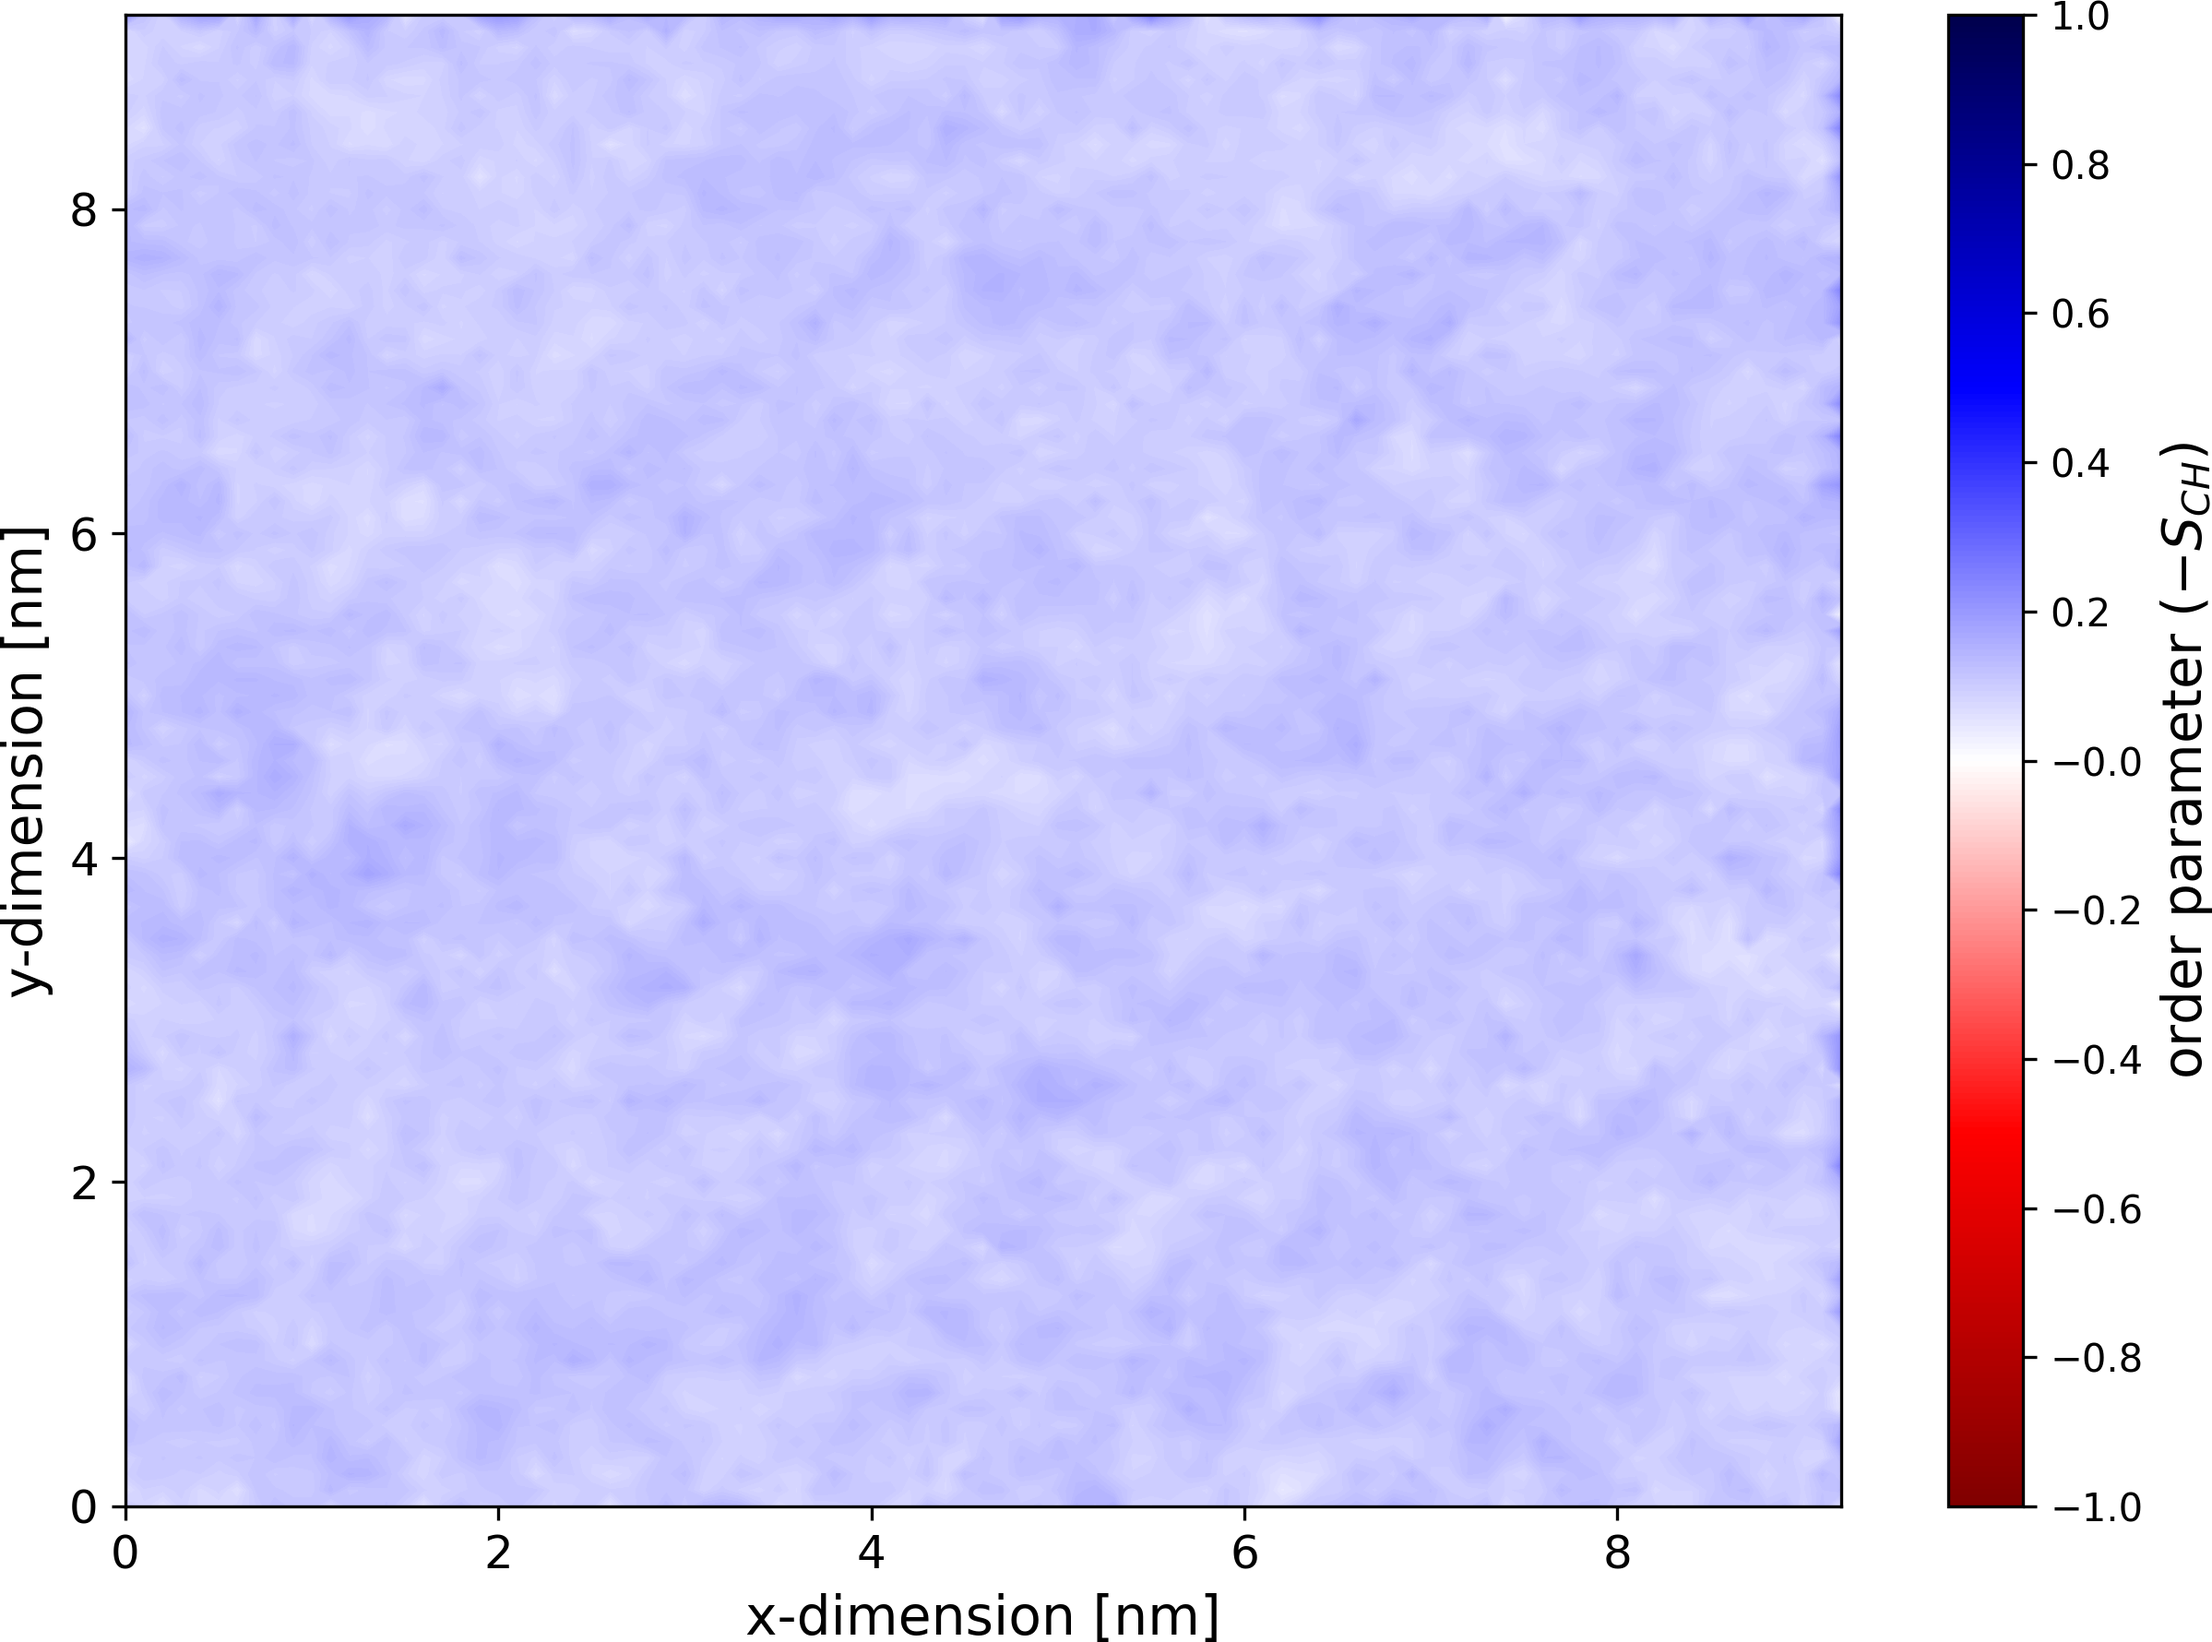
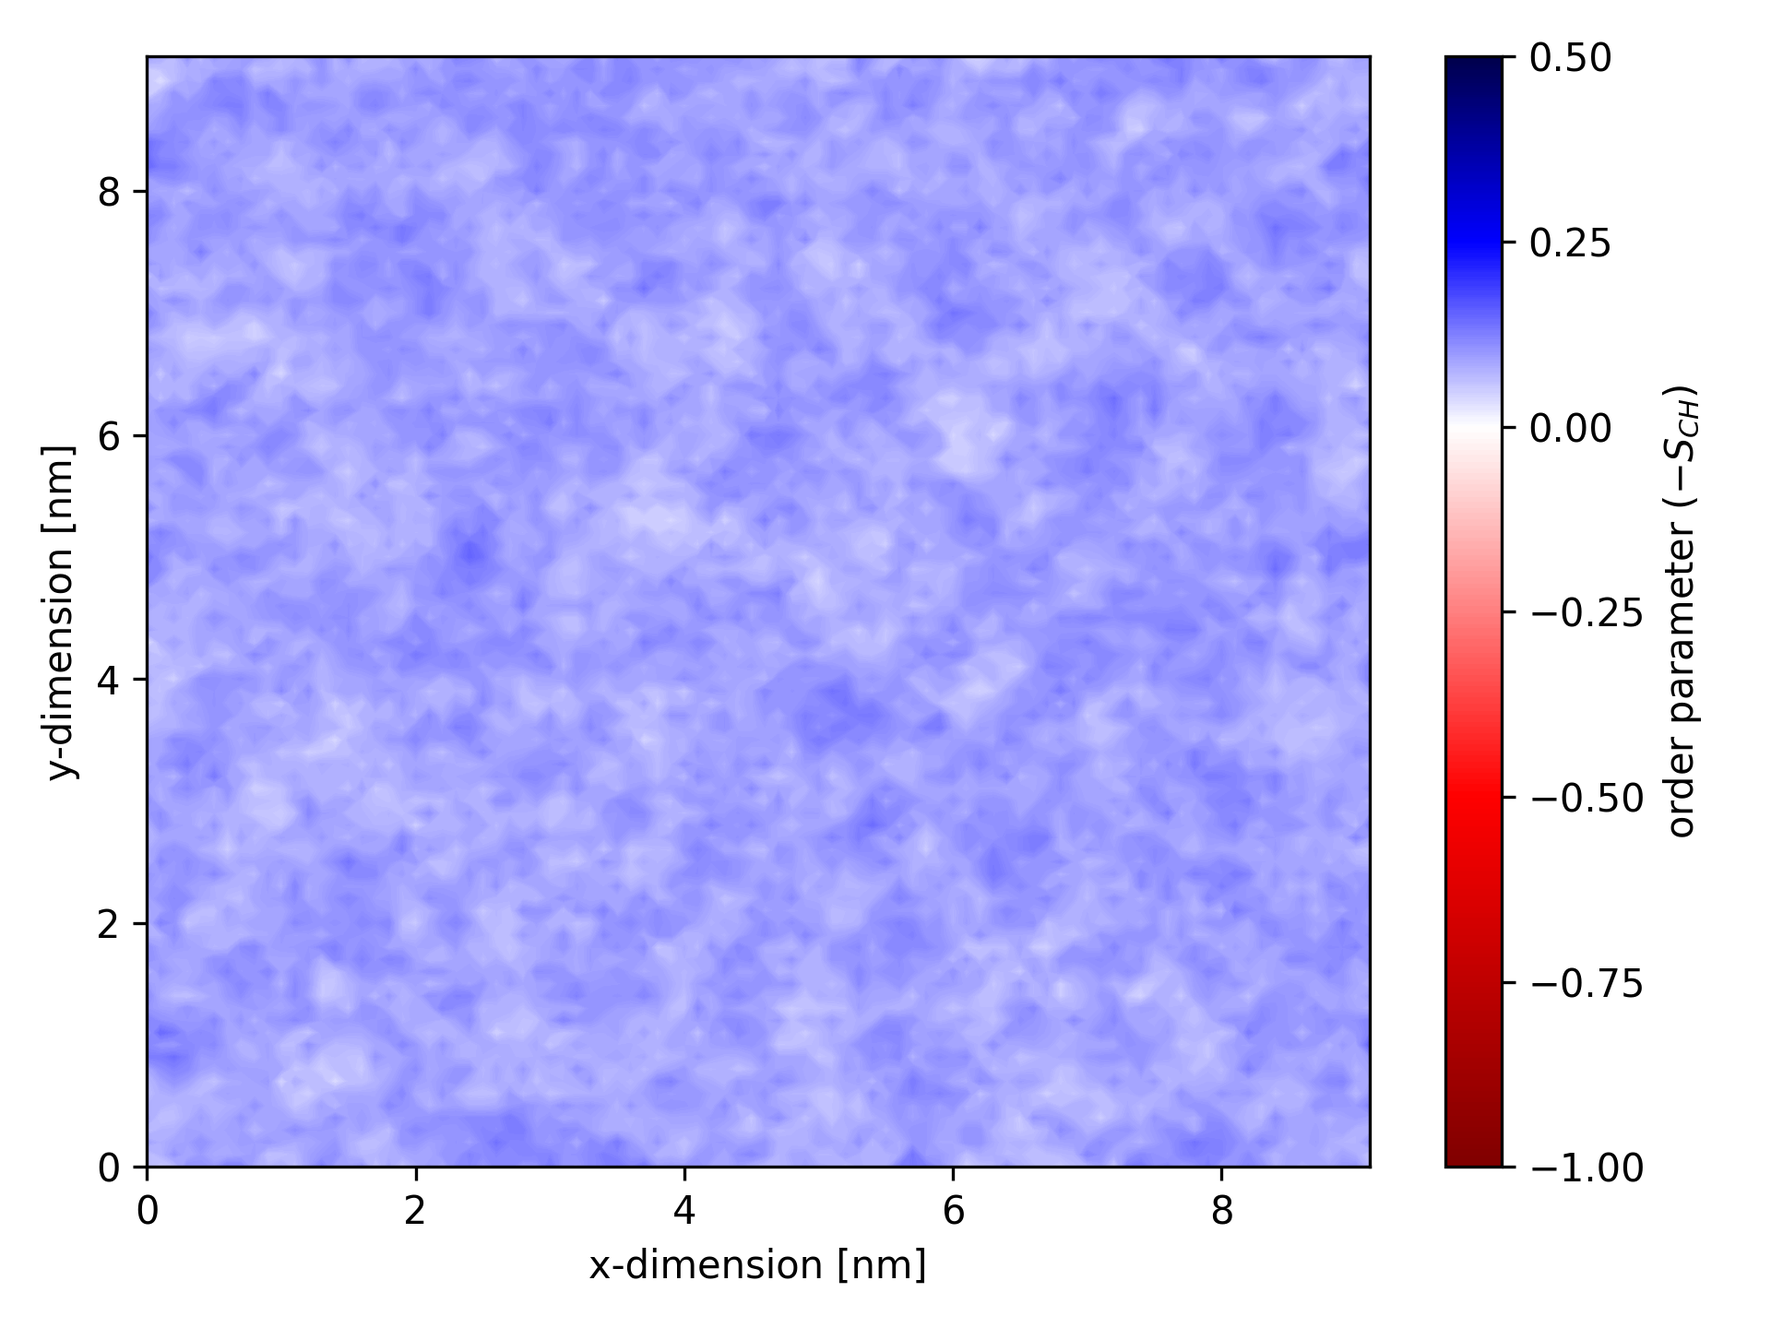
Updated ordermaps

diff --git a/src/ordermaps.md b/src/ordermaps.md
@@ -85,44 +85,44 @@ Ordermaps are saved in a custom two-dimensional `gorder` format:
 @ xlabel x-dimension [nm]
 @ ylabel y-dimension [nm]
 @ zlabel order parameter ($-S_{CH}$)
-@ zrange -1 1 0.2
+@ zrange -1.0 0.5 0.2
 $ type colorbar
 $ colormap seismic_r
-0.0000 0.0000 0.1025
-0.0000 0.1000 0.0610
-0.0000 0.2000 0.0922
-0.0000 0.3000 0.0798
-0.0000 0.4000 0.1215
-0.0000 0.5000 0.1275
-0.0000 0.6000 0.1120
-0.0000 0.7000 0.0732
-0.0000 0.8000 0.0723
-0.0000 0.9000 0.1040
-0.0000 1.0000 0.0711
+0.0000 0.0000 0.0663
+0.0000 0.1000 0.0599
+0.0000 0.2000 0.0890
+0.0000 0.3000 0.0607
+0.0000 0.4000 0.0851
+0.0000 0.5000 0.0730
+0.0000 0.6000 0.0635
+0.0000 0.7000 0.0650
+0.0000 0.8000 0.0823
+0.0000 0.9000 0.1256
+0.0000 1.0000 0.1154
 (...)
-0.1000 0.0000 0.0825
-0.1000 0.1000 0.0918
-0.1000 0.2000 0.1077
-0.1000 0.3000 0.1022
-0.1000 0.4000 0.1100
-0.1000 0.5000 0.1124
-0.1000 0.6000 0.0917
-0.1000 0.7000 0.1038
-0.1000 0.8000 0.1128
-0.1000 0.9000 0.1064
-0.1000 1.0000 0.1046
+0.1000 0.0000 0.0527
+0.1000 0.1000 0.0738
+0.1000 0.2000 0.0787
+0.1000 0.3000 0.0735
+0.1000 0.4000 0.0600
+0.1000 0.5000 0.0745
+0.1000 0.6000 0.0787
+0.1000 0.7000 0.0897
+0.1000 0.8000 0.1080
+0.1000 0.9000 0.1279
+0.1000 1.0000 0.1003
 (...)
-0.2000 0.0000 0.0603
-0.2000 0.1000 0.0873
-0.2000 0.2000 0.1058
-0.2000 0.3000 0.1097
-0.2000 0.4000 0.1014
-0.2000 0.5000 0.1147
-0.2000 0.6000 0.1199
-0.2000 0.7000 0.1315
-0.2000 0.8000 0.1123
-0.2000 0.9000 0.1012
-0.2000 1.0000 0.1207
+0.2000 0.0000 0.0645
+0.2000 0.1000 0.1024
+0.2000 0.2000 0.0880
+0.2000 0.3000 0.0747
+0.2000 0.4000 0.0647
+0.2000 0.5000 0.0681
+0.2000 0.6000 0.0839
+0.2000 0.7000 0.1048
+0.2000 0.8000 0.1208
+0.2000 0.9000 0.1400
+0.2000 1.0000 0.0974
 (...)
 ```
 
@@ -135,7 +135,7 @@ For easy visualization of ordermaps, `gorder` generates a Python script named `p
 To run the script, it is recommended to use the [`uv`](https://github.com/astral-sh/uv) package manager. To visualize an ordermap, navigate to the generated ordermaps directory and run:
 
 ```bash
-uv run -q plot.py INPUT_ORDERMAP
+uv run plot.py INPUT_ORDERMAP
 ```
 
 Here, `INPUT_ORDERMAP` is the path to the ordermap file you want to plot. A window displaying the generated plot will appear.
@@ -143,14 +143,14 @@ Here, `INPUT_ORDERMAP` is the path to the ordermap file you want to plot. A wind
 If you want to plot and save the ordermap as a PNG file, run:
 
 ```bash
-uv run -q plot.py INPUT_ORDERMAP OUTPUT_PNG
+uv run plot.py INPUT_ORDERMAP OUTPUT_PNG
 ```
 
 Here, `OUTPUT_PNG` is the path where the PNG file will be saved.
 
 ## Examples of plotted ordermaps
 
-When visualized, the ordermap for a specific atom type might look like this:
+When visualized, an ordermap for a specific atom type might look like this:
 
 ![Example of an ordermap](ordermap_example_1.png)
 
